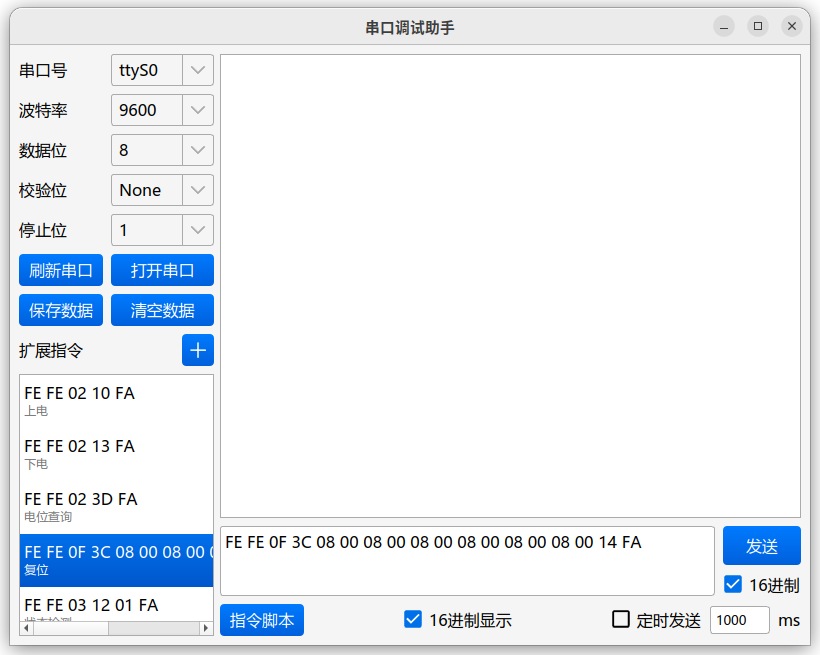
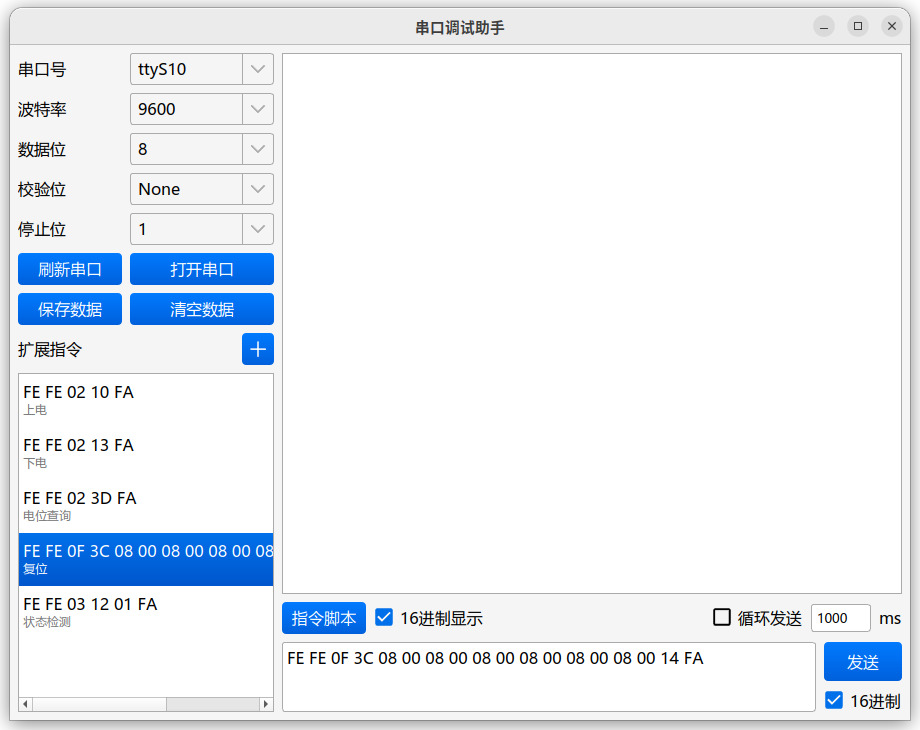
feat(main): 修改串口打开方法，简化错误处理逻辑，优化信号传递

Changed region(s): [[0.0, 0.0, 1.0, 1.0], [0.9756, 0.0, 1.0, 0.0305], [0.0, 0.0, 0.0305, 0.0305]]

diff --git a/SerialPortManager.cpp b/SerialPortManager.cpp
@@ -44,12 +44,12 @@ public slots:
             });
   }
 
-  bool openPort(const QString &portName, qint32 baudRate,
+  void openPort(const QString &portName, qint32 baudRate,
                 const QString &dataBits, const QString &parity,
                 const QString &stopBits, const QString &flowControl) {
     if (!portPtr) {
       emit errorOccurred("SerialPortWorker is not initialized");
-      return false;
+      return;
     }
 
     if (portPtr->isOpen()) {
@@ -91,9 +91,7 @@ public slots:
       portPtr->setFlowControl(QSerialPort::NoFlowControl);
     }
 
-    const bool ok = portPtr->open(QIODevice::ReadWrite);
-    emit stateChanged(ok);
-    return ok;
+    emit stateChanged(portPtr->open(QIODevice::ReadWrite));
   }
 
   void writeData(const QByteArray &data) {
@@ -154,24 +152,23 @@ SerialPortManager::SerialPortManager(QObject *parent)
   QMetaObject::invokeMethod(workerPtr, "init", Qt::BlockingQueuedConnection);
 }
 
-bool SerialPortManager::open(const QString &portName, qint32 baudRate,
+void SerialPortManager::open(const QString &portName, qint32 baudRate,
                              const QString &dataBits, const QString &parity,
                              const QString &stopBits,
                              const QString &flowControl) {
-  bool ok = false;
-  QMetaObject::invokeMethod(
-      workerPtr,
-      [&]() {
-        ok = workerPtr->openPort(portName, baudRate, dataBits, parity, stopBits,
-                                 flowControl);
-      },
-      Qt::BlockingQueuedConnection);
-  return ok;
+  // [=]等效[this, portName, baudRate, dataBits, parity, stopBits, flowControl]
+  // 参数少用后者的写法更推荐，参数多用前者
+  // 现代 C++ 更推荐后者
+  auto function = [=]() {
+    workerPtr->openPort(portName, baudRate, dataBits, parity, stopBits,
+                        flowControl);
+  };
+  QMetaObject::invokeMethod(workerPtr, function, Qt::BlockingQueuedConnection);
 }
 
 void SerialPortManager::write(const QByteArray &data) {
-  QMetaObject::invokeMethod(
-      workerPtr, [=]() { workerPtr->writeData(data); }, Qt::QueuedConnection);
+  auto function = [=]() { workerPtr->writeData(data); };
+  QMetaObject::invokeMethod(workerPtr, function, Qt::QueuedConnection);
 }
 
 void SerialPortManager::close() {
@@ -181,9 +178,9 @@ void SerialPortManager::close() {
 
 bool SerialPortManager::isOpen() const {
   bool opened = false;
-  QMetaObject::invokeMethod(
-      workerPtr, [&]() { opened = workerPtr->isPortOpen(); },
-      Qt::BlockingQueuedConnection);
+  // [&]等效[this, &opened]，适合修改外部变量场景
+  auto function = [&]() { opened = workerPtr->isPortOpen(); };
+  QMetaObject::invokeMethod(workerPtr, function, Qt::BlockingQueuedConnection);
   return opened;
 }
 

diff --git a/MainWindow.cpp b/MainWindow.cpp
@@ -141,7 +141,6 @@ MainWindow::MainWindow(QMainWindow *parent)
           });
   connect(mgr, &SerialPortManager::errorOccurredSignal, this,
           [this](const QString &msg) {
-            qDebug() << msg;
             QMessageBox::critical(this, "串口错误", msg);
           });
 }
@@ -182,13 +181,7 @@ void MainWindow::onOpenPortButtonClicked() {
     }
 
     // 默认无流控
-    const auto ret =
-        mgr->open(portName, baudRate, dataBits, parity, stopBits, "None");
-    if (!ret) {
-      // 错误信息通过 SerialPortManager 的 errorOccurredSignal
-      // 信号传递，不需要在这里显示
-      _logger.e("打开失败，请检查参数设置和串口连接");
-    }
+    mgr->open(portName, baudRate, dataBits, parity, stopBits, "None");
   }
 }
 

diff --git a/SerialPortManager.hpp b/SerialPortManager.hpp
@@ -19,7 +19,7 @@ public:
     return &instance;
   }
 
-  bool open(const QString &portName, qint32 baudRate,
+  void open(const QString &portName, qint32 baudRate,
             const QString &dataBits = "", const QString &parity = "",
             const QString &stopBits = "", const QString &flowControl = "");
 